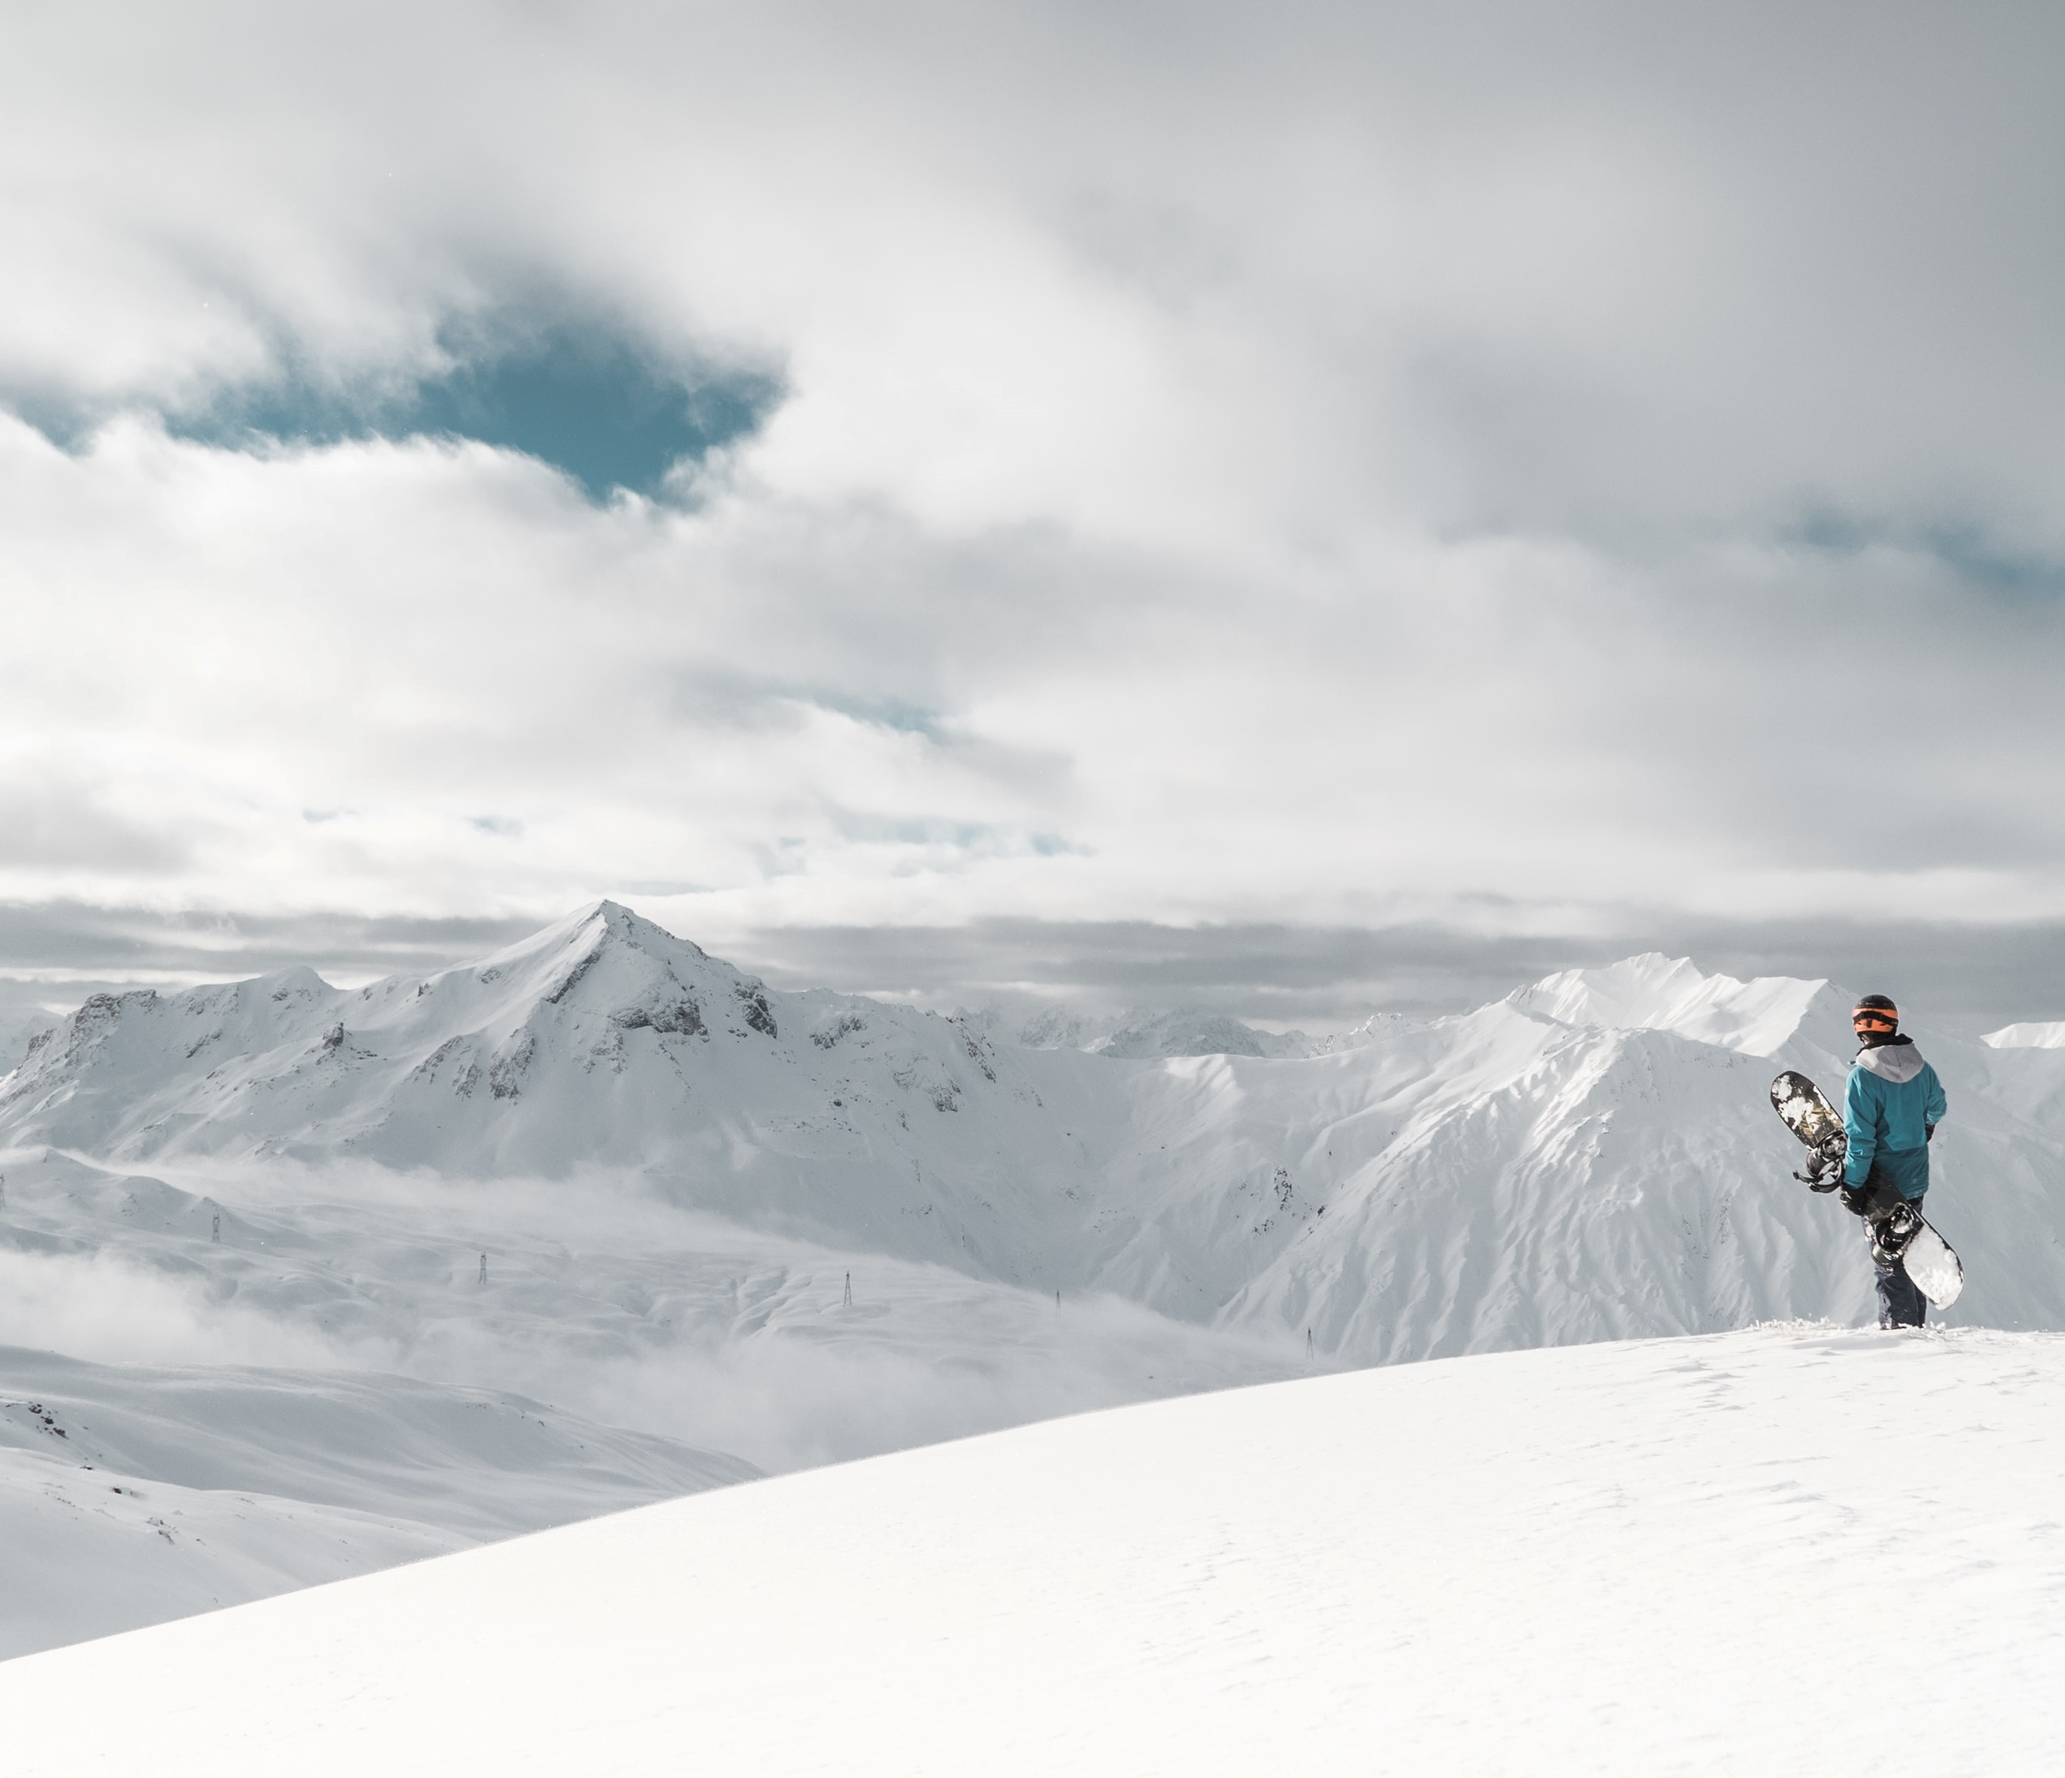
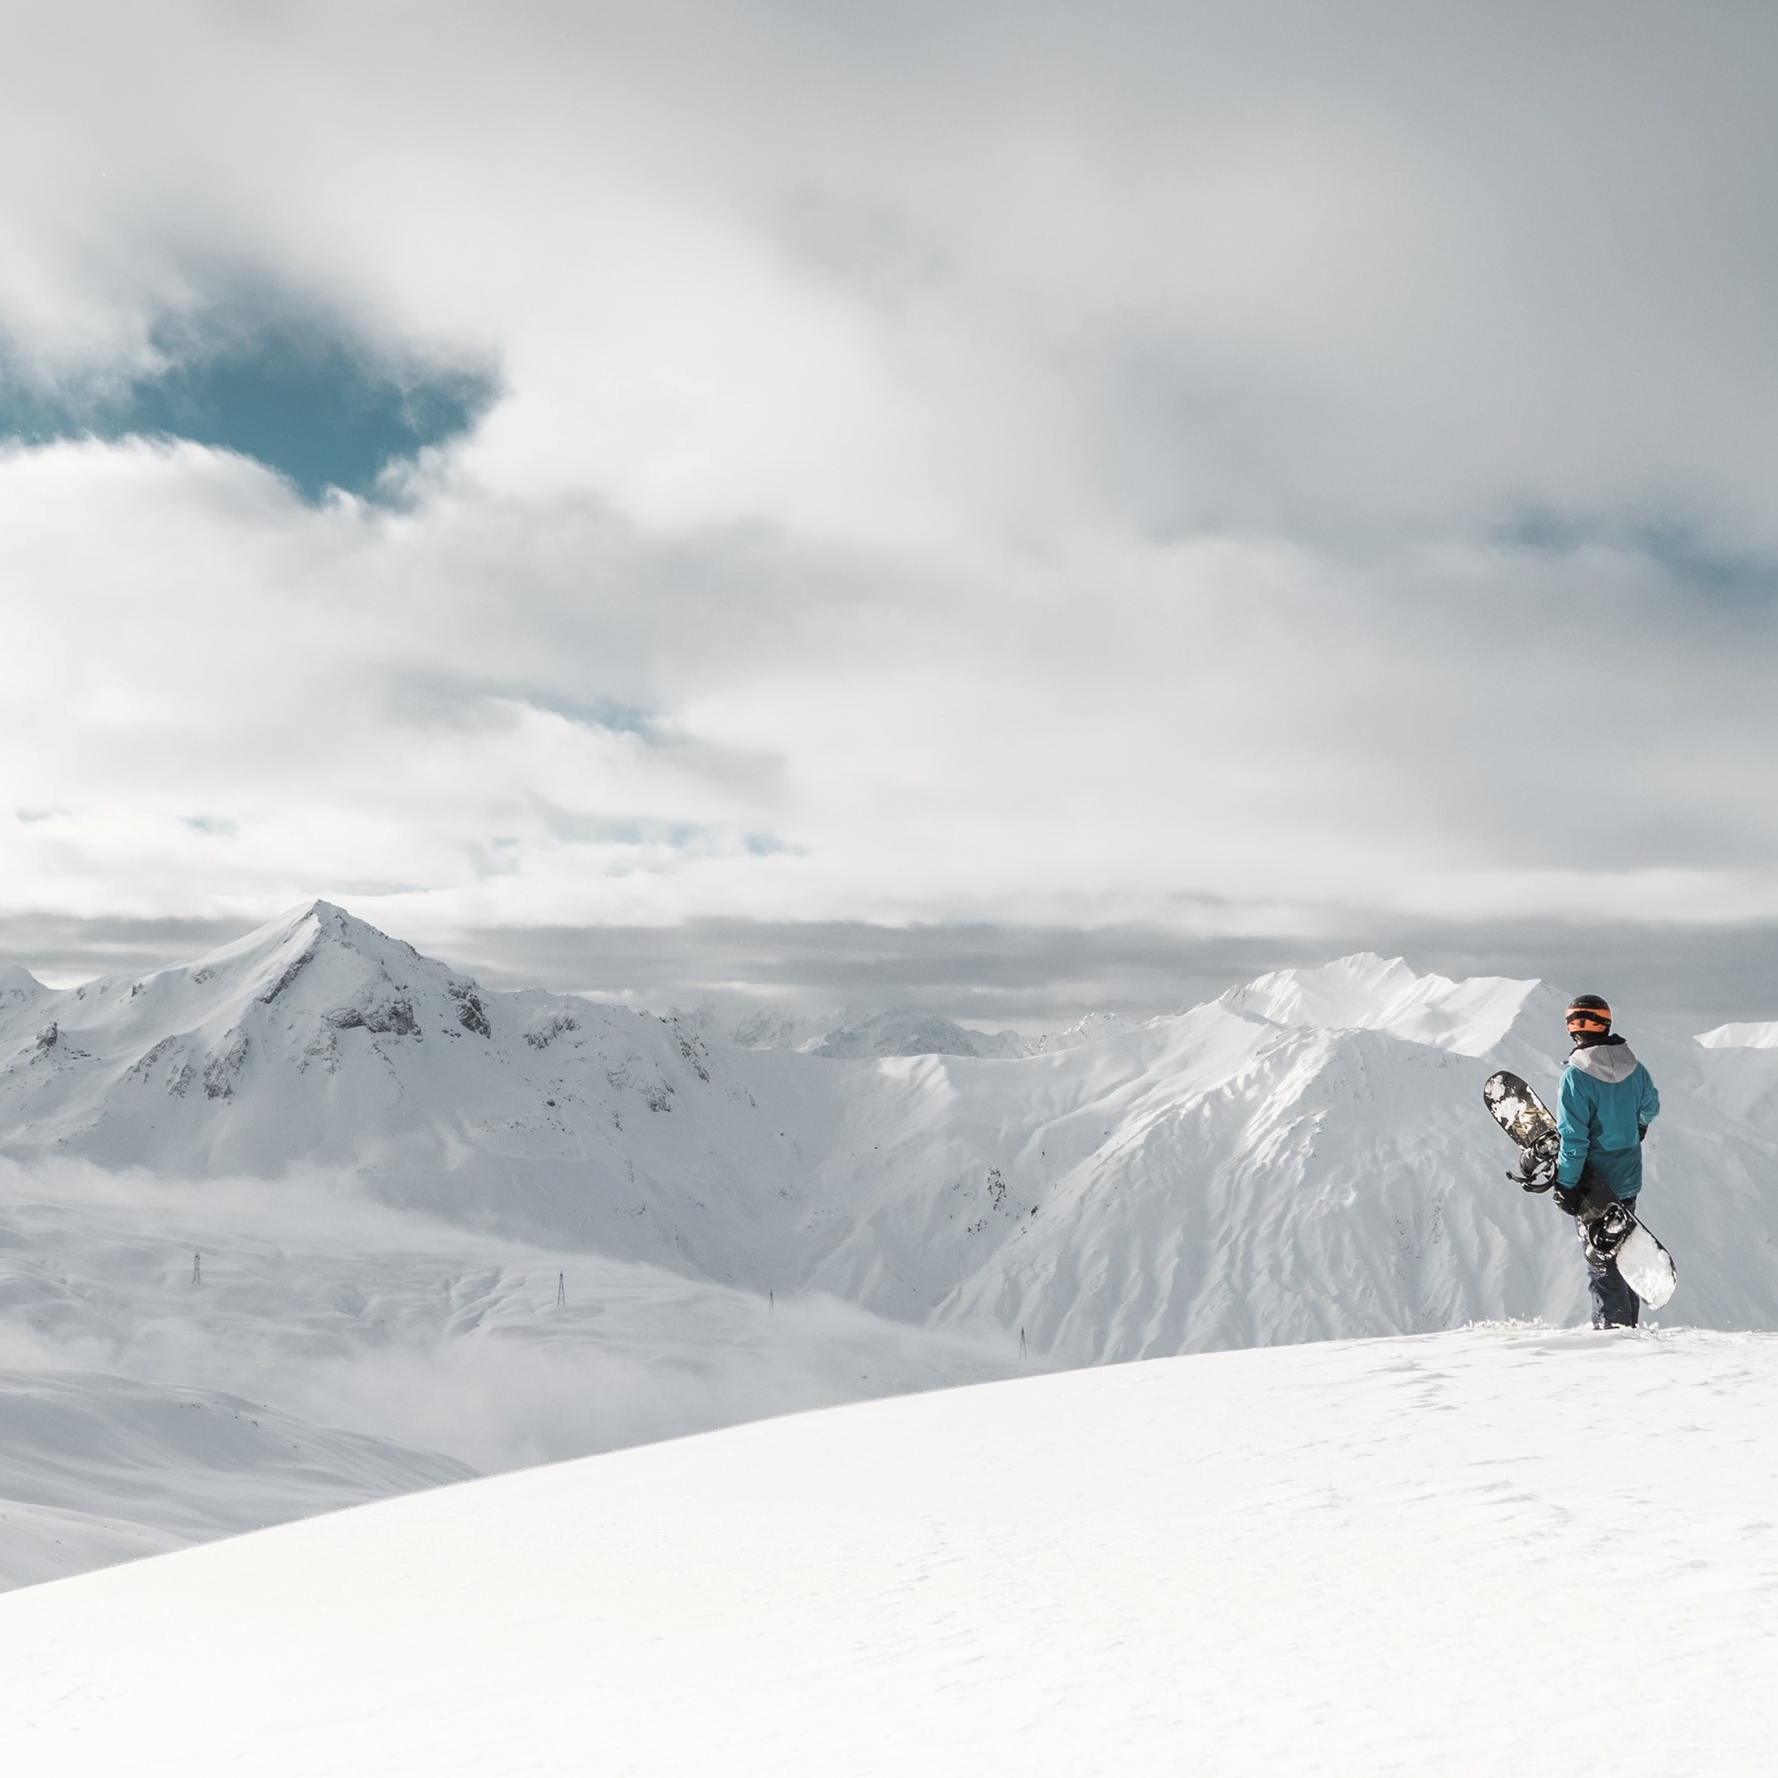
images

diff --git a/Front/src/components/Trip/styles.scss b/Front/src/components/Trip/styles.scss
@@ -4,6 +4,7 @@ body {
   .app {
     @media screen and (max-width: 941px) {  
       .trip {
+        margin-top: 2rem;
         position: relative;
         background: vars.$color-light;
         top: -150px;
@@ -13,7 +14,7 @@ body {
           flex-direction: column;
           justify-content: center;
           max-width: 80%;
-          margin: 2rem auto;
+          margin: 0 auto;
           box-shadow: vars.$box-shadow;
           border-radius: vars.$border-radius-global;
           

diff --git a/Front/src/components/Trip/HeaderTrip/styles.scss b/Front/src/components/Trip/HeaderTrip/styles.scss
@@ -22,7 +22,7 @@ body {
     filter: blur(0.6px);
     height: auto;
     width: 100%;
-    //object-fit: cover
+    object-fit: cover
     /* L'image est positionnée en haut à gauche */
     // position: relative;
     // top: 0;
